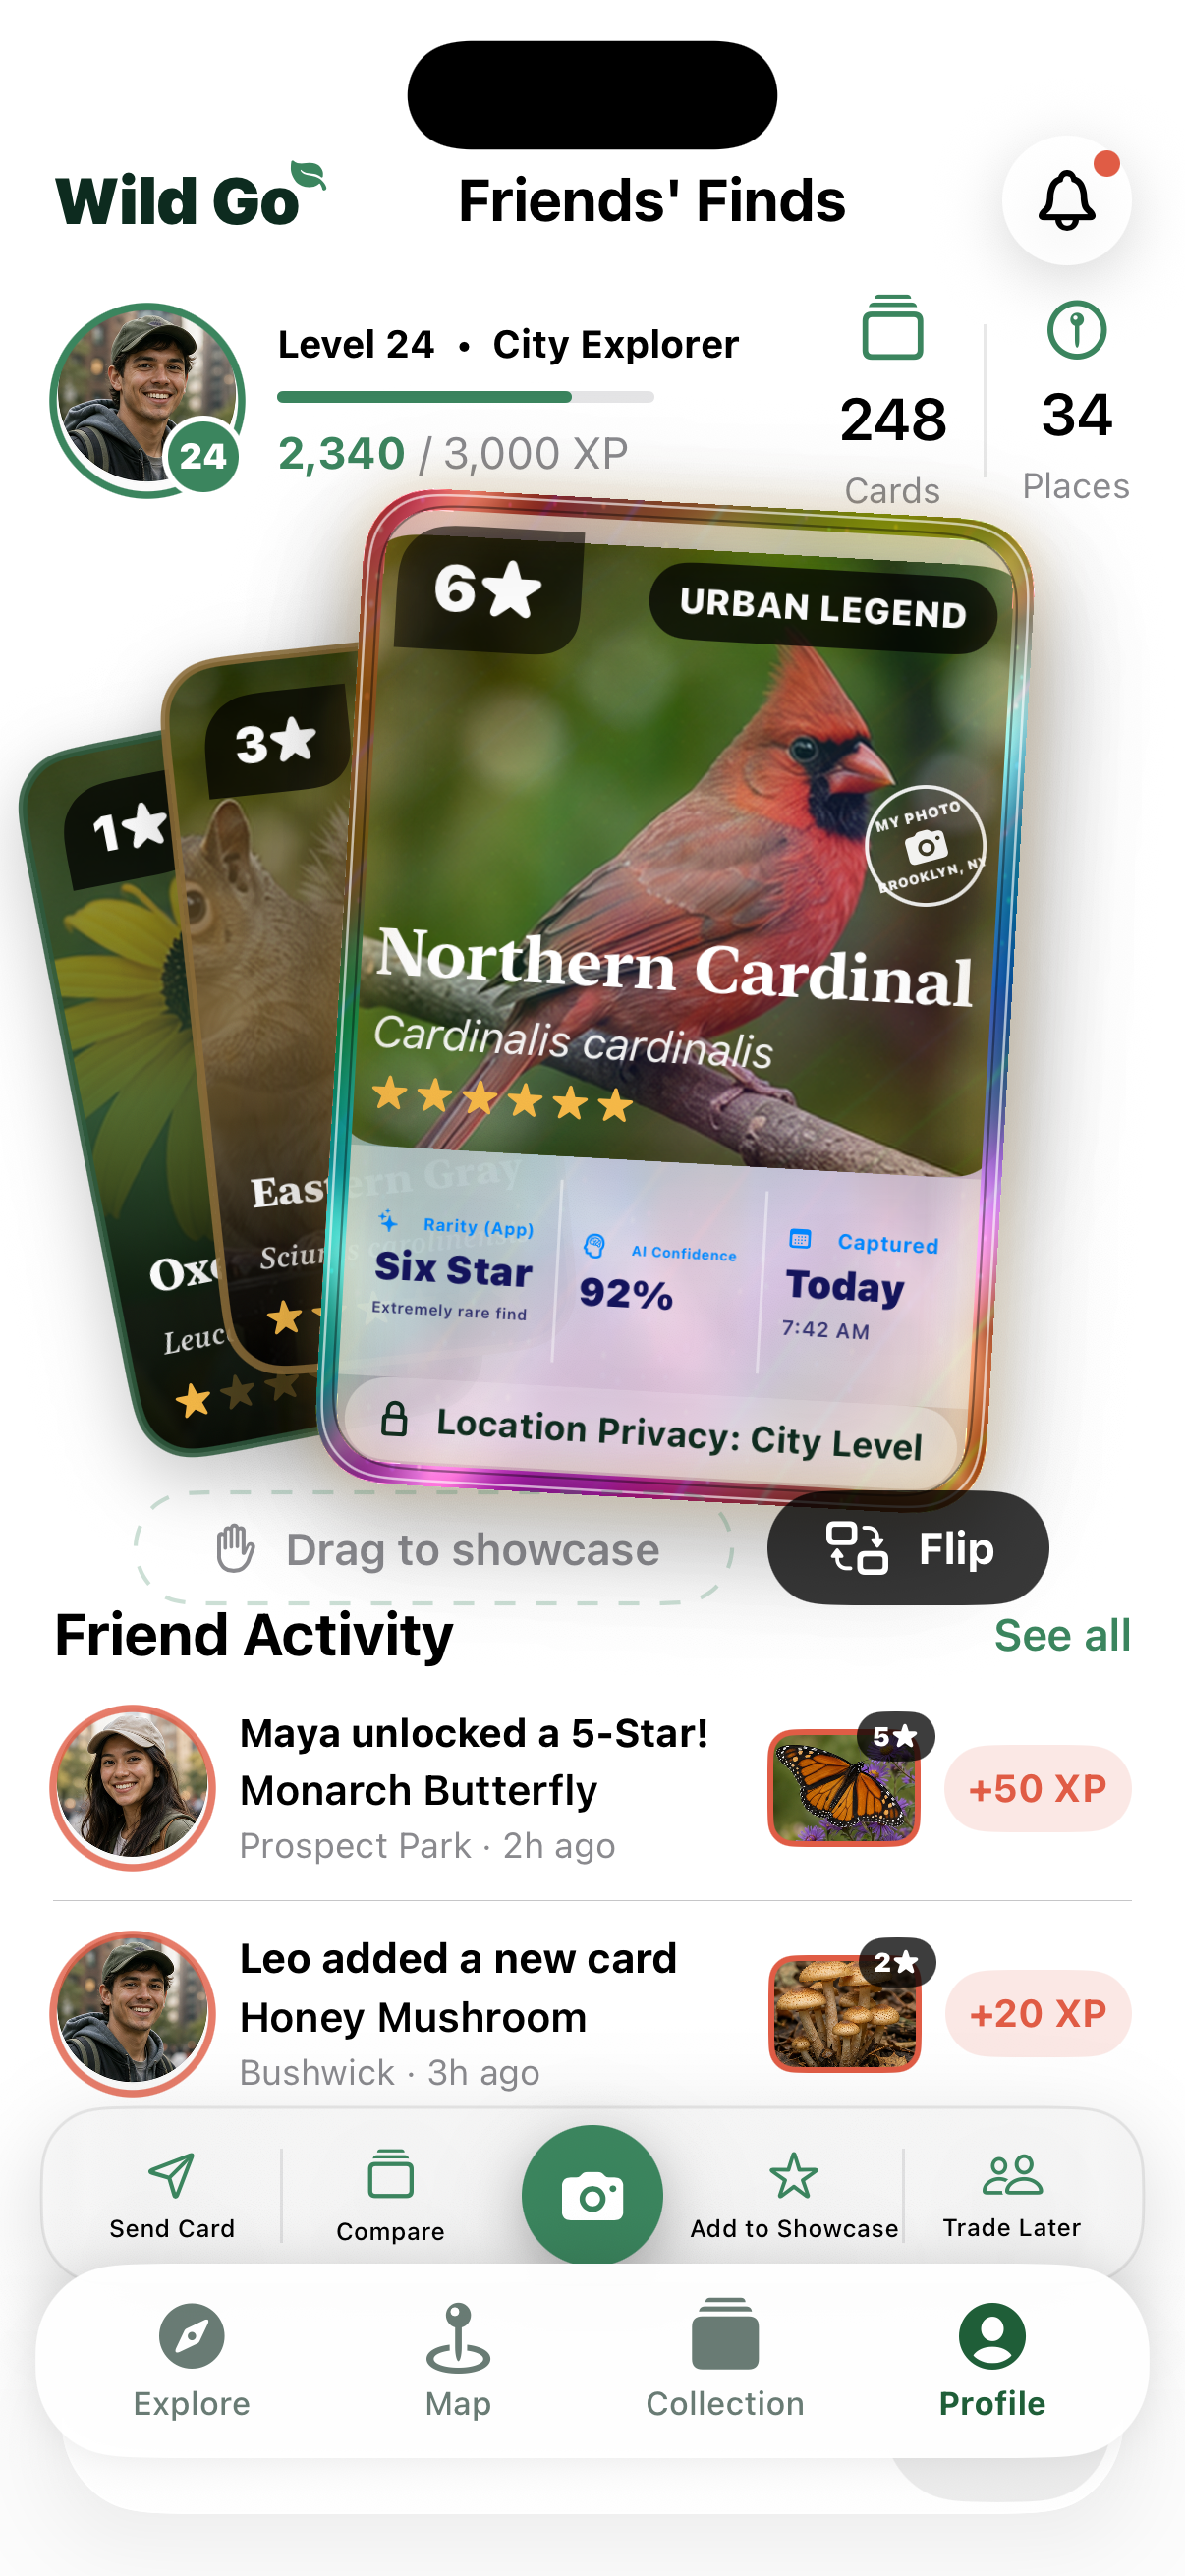
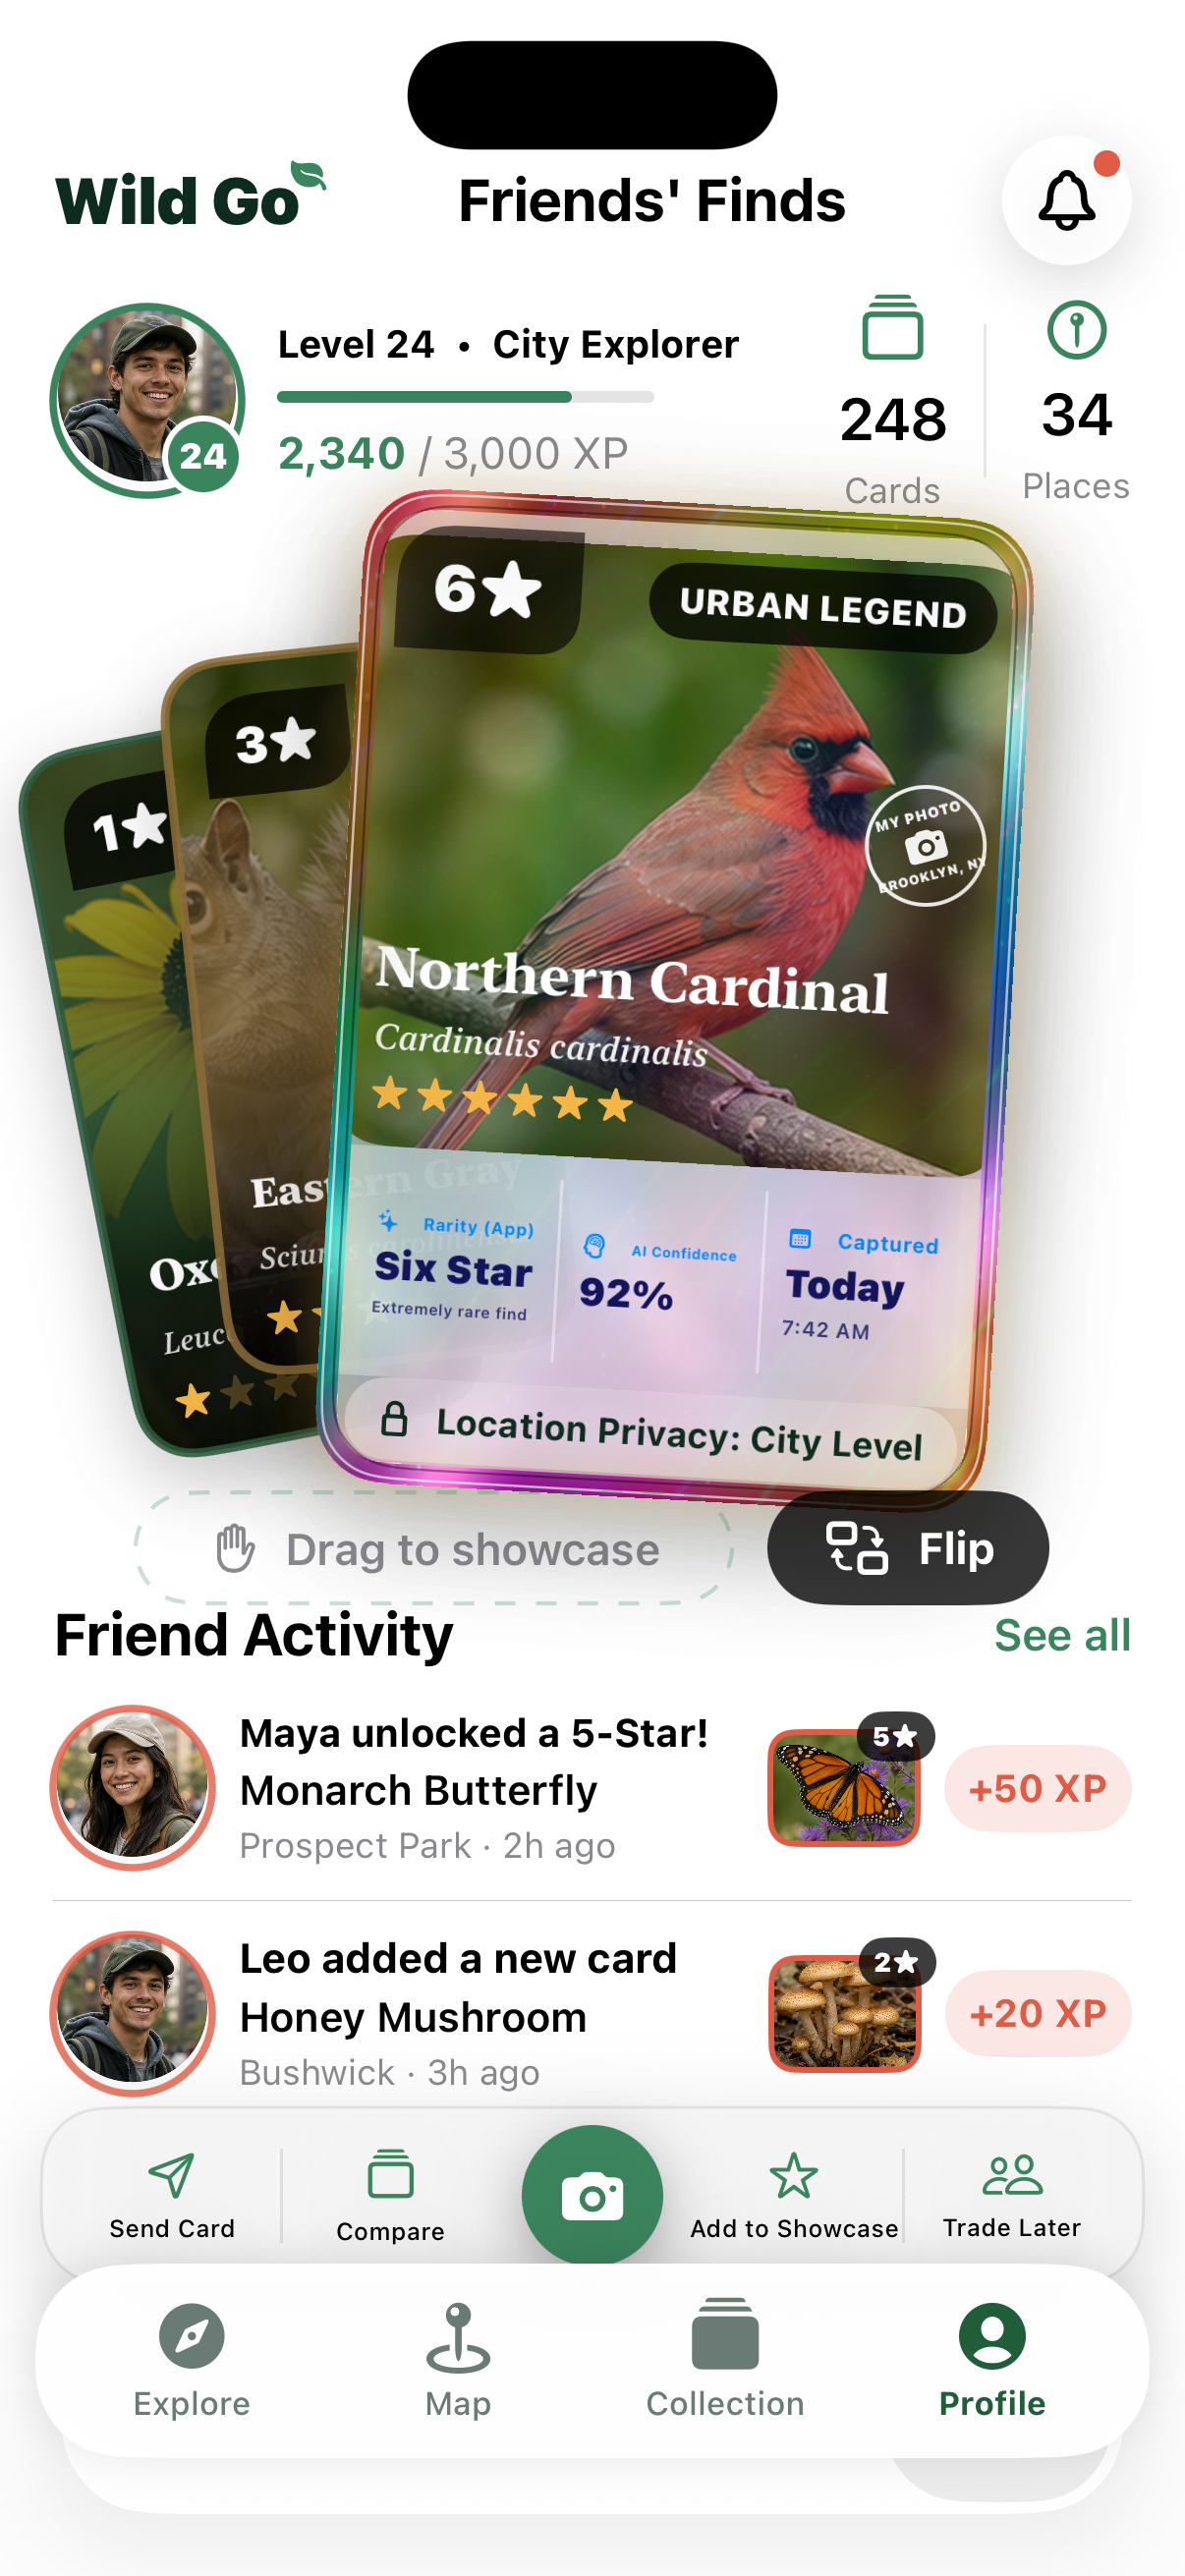
Refine profile card typography

Changed region(s): [[0.3068, 0.3398, 0.8284, 0.4325]]

diff --git a/ios/App/App/AppDelegate.swift b/ios/App/App/AppDelegate.swift
@@ -5026,16 +5026,16 @@ struct FriendsHeroShowcaseCard: View {
                     Spacer()
 
                     Text("Northern Cardinal")
-                        .font(.system(size: 23, weight: .bold, design: .serif))
+                        .font(.system(size: 19, weight: .bold, design: .serif))
                         .foregroundStyle(.white)
                         .lineLimit(1)
                         .minimumScaleFactor(0.78)
                     Text("Cardinalis cardinalis")
-                        .font(.subheadline)
+                        .font(.system(size: 12, weight: .medium, design: .serif))
                         .italic()
                         .foregroundStyle(.white.opacity(0.92))
                     StarStrip(count: 6)
-                        .font(.headline)
+                        .font(.subheadline)
                 }
                 .padding(12)
 

diff --git a/design-qa.md b/design-qa.md
@@ -21,6 +21,7 @@
 - Copy and content: `New card unlocked`, `Approx location`, `Likely match`, `AI confidence`, `First seen`, `Add to Binder`, and `Share Card` match the source state.
 
 **Iteration Evidence**
+- Profile hero-card text hierarchy: reducing only the over-photo common name, Latin name, and star row matches the concept's quieter image caption without changing the `228 x 338` pt card or any gesture area. Six-decimal comparison improves composite from `0.815941` to `0.815983`, thumbnail from `0.788237` to `0.788328`, and bands from `0.931069` to `0.931299`; histogram moves only from `0.748217` to `0.747889`. A follow-up metadata-glass trial was rejected because histogram fidelity fell to `0.740` and composite to `0.814`. Gates are now composite `0.815`, thumbnail `0.788`, histogram `0.747`, and bands `0.931`.
 - Friends/Profile top-bar typography: replacing the oversized rounded display faces with restrained system sans at `22` pt and `20` pt keeps the notification-owned row height and every control frame unchanged. Two independent renders both improve composite fidelity from `0.814` to `0.816`, thumbnail similarity from `0.786` to `0.788`, and vertical bands from `0.930` to `0.931`, with histogram stable at `0.748`. Gates are now composite `0.814`, thumbnail `0.787`, histogram `0.746`, and bands `0.930`.
 - Capture secondary CTA material: darkening only the Share Card fill and replacing its bright lime outline with a muted olive border preserves the exact button geometry while moving the lower action stack toward the concept. Two independent candidate renders both score composite `0.819`, thumbnail `0.843`, histogram `0.624`, and bands `0.922`; previous tracked values were composite `0.818`, thumbnail `0.843`, histogram `0.620`, and bands `0.922`. Gates are now composite `0.818`, thumbnail `0.840`, histogram `0.623`, and bands `0.920`.
 - Before: composite `0.739`, thumbnail `0.801`, histogram `0.593`, bands `0.852`.
@@ -40,6 +41,7 @@
 - [x] Match card aspect, photo proportion, rarity chrome, confidence block, interaction rail, dots, and CTA rhythm.
 - [x] Match the Share Card fill and border material to the concept without changing its icon, label, frame, or hit target.
 - [x] Match Friends/Profile's top-bar type hierarchy without changing the notification or downstream interaction geometry.
+- [x] Match the Profile hero card's over-photo species hierarchy while preserving card size, material, and gestures.
 - [x] Preserve Sticker's official example shader parameters and native motion path.
 - [x] Re-run real-coordinate Capture interactions after the layout change. CGEvent taps verify Back, Tilt, Press & Hold, Flip, Add to Binder, and Share Card; horizontal CGEvent drags verify pages 2, 3, and 4 plus a backward swipe, with internal carousel events for every asserted page.
 - [x] Move the Capture card stage upward by the smallest measured amount that improves the normalized concept score, then re-run Back, Tilt, Depth, Flip, Add, and Share using real coordinates.

diff --git a/HANDOFF.md b/HANDOFF.md
@@ -14,6 +14,7 @@
 - Binder's current grid was compacted to match the concept's vertical rhythm: the board is `468` pt tall instead of `529`, feature cards are `276`/`268` pt, and the four supporting cards are `164` pt. The six-level rarity guide is `74` pt tall, and the reference-style single-line Tilt/Binder Tips row now renders completely above the bottom navigation without dropping card names, rarity, confidence, locality, or dates.
 - Binder card typography now follows the concept's compact serif hierarchy: both feature cards and all four supporting cards keep species names on one dynamically scaled line. This removes the non-reference wrapping on Eastern Gray Squirrel, Black-eyed Susan, and Monarch Butterfly without changing any card, control, or hit-target geometry. Candidate-aware concept QA measures spatial thumbnail `0.855`, histogram `0.733`, and composite `0.855` on repeat renders.
 - Friends/Profile's two top-bar titles now use the concept's restrained system sans hierarchy instead of oversized rounded display type. The notification control still owns the row height, so the account, deck, activity, action-rail, and bottom-navigation geometry is unchanged. Two independent renders both improve composite fidelity from `0.814` to `0.816`, spatial thumbnail from `0.786` to `0.788`, and vertical bands from `0.930` to `0.931`.
+- The Profile hero card now uses a tighter concept-matched species hierarchy inside its photo: a `19` pt serif common name, `12` pt serif italic Latin name, and smaller star row. This preserves the `228 x 338` pt card, photo window, ShaderKit border, metadata panel, and all gestures. Six-decimal QA confirms small stable gains in composite (`0.815941` to `0.815983`), thumbnail (`0.788237` to `0.788328`), and bands (`0.931069` to `0.931299`). A brighter metadata-glass trial was rejected after histogram fidelity fell to `0.740`.
 - Current material QA references are `qa-shots/swiftui-native-capture-shaderkit-v1.png` and `qa-shots/swiftui-native-binder-shaderkit-rarity-v1.png`.
 - The July 13 Friends/Profile geometry pass fixed the three viewport defects found against `friends-showcase-stack.png`: the second Friend Activity row's locality/date line no longer hides behind the action rail, the hero showcase card no longer overlaps the "Drag to showcase" pill, and the white Profile bottom bar now uses the concept's "Collection" label. The layout-weighted concept scores are Capture `0.816`, Binder `0.855`, and Friends `0.814`; Binder vertical-band similarity improved from `0.954` to `0.956` and Capture's spatial thumbnail score improved to `0.837`.
 - The full July 13 real-coordinate pass is green across navigation, Map, Capture, Binder, and Profile. The Profile action-rail taps were recalibrated from `0.83` to `0.85` of the Simulator display after the latest viewport compaction, and every asserted action now reaches its intended control.